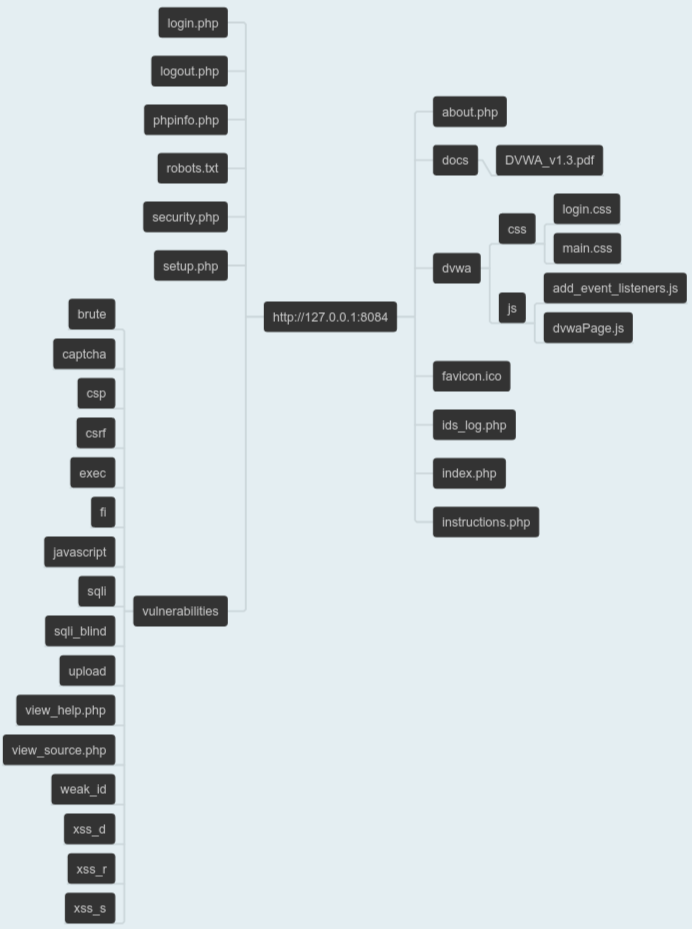
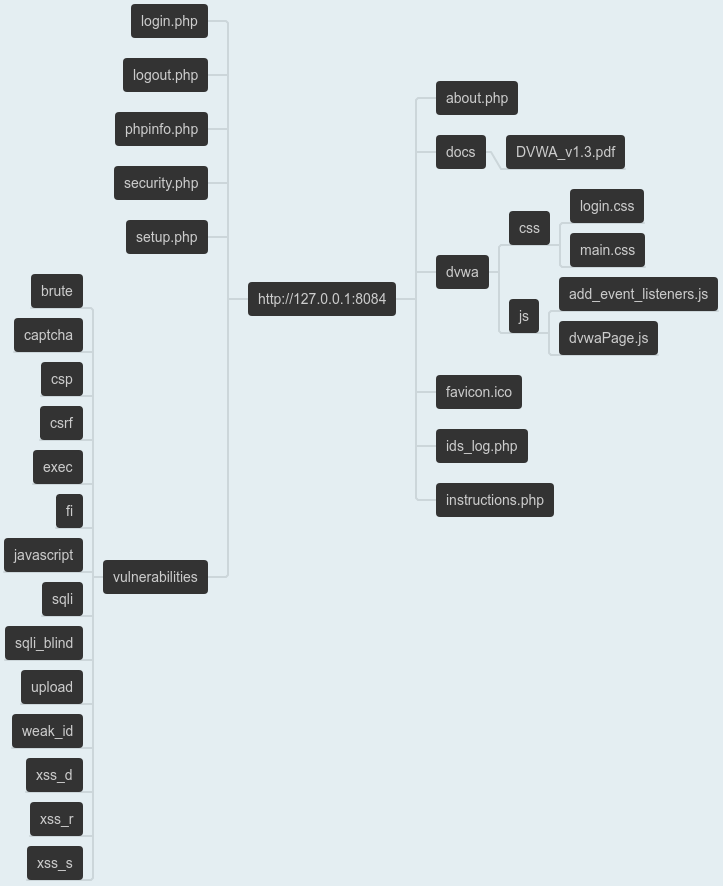
correct a bug with url param, added docs for zaproxy and change somes images

Changed region(s): [[0.0, 0.0, 0.3338, 1.0], [0.5766, 0.0914, 1.0, 0.6095], [0.3338, 0.3047, 0.5766, 0.3657]]

diff --git a/crawlmap.py b/crawlmap.py
@@ -20,8 +20,9 @@ if __name__ == '__main__':
 	burp = args.burp
 	gospider = args.gospider
 	zaproxy = args.zaproxy
-	url = args.url
-	domain = parse.urlsplit(url).netloc
+	url = parse.urlsplit(args.url)
+	domain = url.netloc
+	url = f"{url.scheme}://{url.netloc}"
 	out_file = args.out
 	nofiles = args.nofiles
 	exclude_extensions = [x.lower() for x in args.exclude.split(',')]
